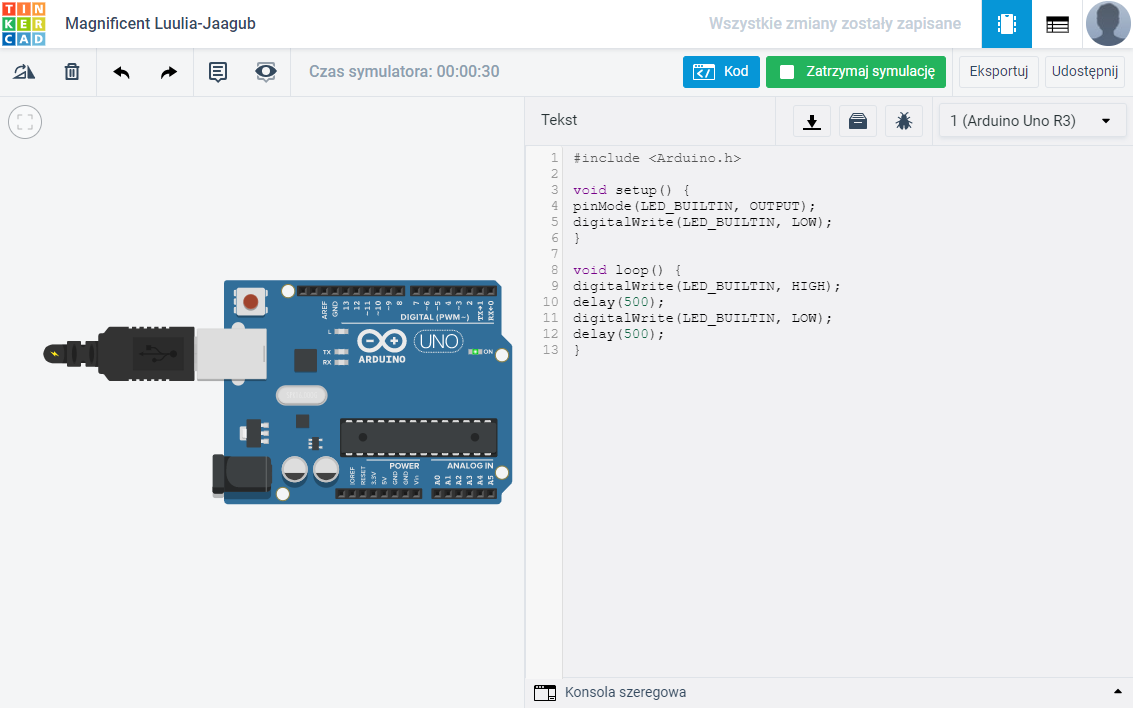
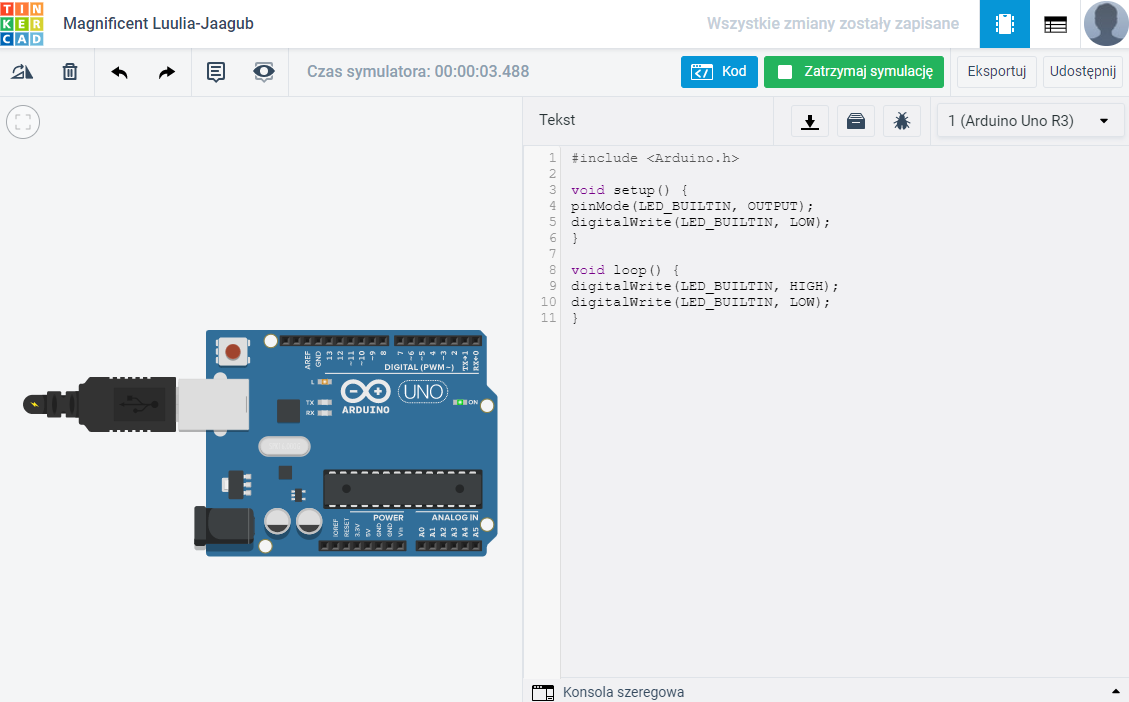
Poprawa odpowiedzi do 2-2-1a (wczesniej 2-2-1b)

diff --git a/Zadanie-2-2/src/main.cpp b/Zadanie-2-2/src/main.cpp
@@ -1,13 +1,14 @@
 #include <Arduino.h>
 
+#define LED_RED 10
+
 void setup() {
-pinMode(LED_BUILTIN, OUTPUT);
-digitalWrite(LED_BUILTIN, LOW);
+pinMode(LED_RED, OUTPUT);
 }
 
 void loop() {
-digitalWrite(LED_BUILTIN, HIGH);
+digitalWrite(LED_RED, HIGH);
 delay(500);
-digitalWrite(LED_BUILTIN, LOW);
+digitalWrite(LED_RED, LOW);
 delay(500);
 }

diff --git a/README.md b/README.md
@@ -13,7 +13,7 @@ Grupa studencka:            WEL18EQ5S1
 # Pytania do zadań z instrukcji
 ## Zadanie 2-2-1a:
 Pytanie:    *Jaki jest efekt działania programu?*  
-Odpowiedź:  Dioda LED o oznaczeniu L co pół sekundy zmienia stan włączenia i wyłączenia.
+Odpowiedź:  Dioda LED o oznaczeniu L stale świeci.
 
 ## Zadanie 2-2-2:
 Pytanie:    *Czy zamienienie kolejności podłączenia diody LED i rezystora ma znaczenie?*  
